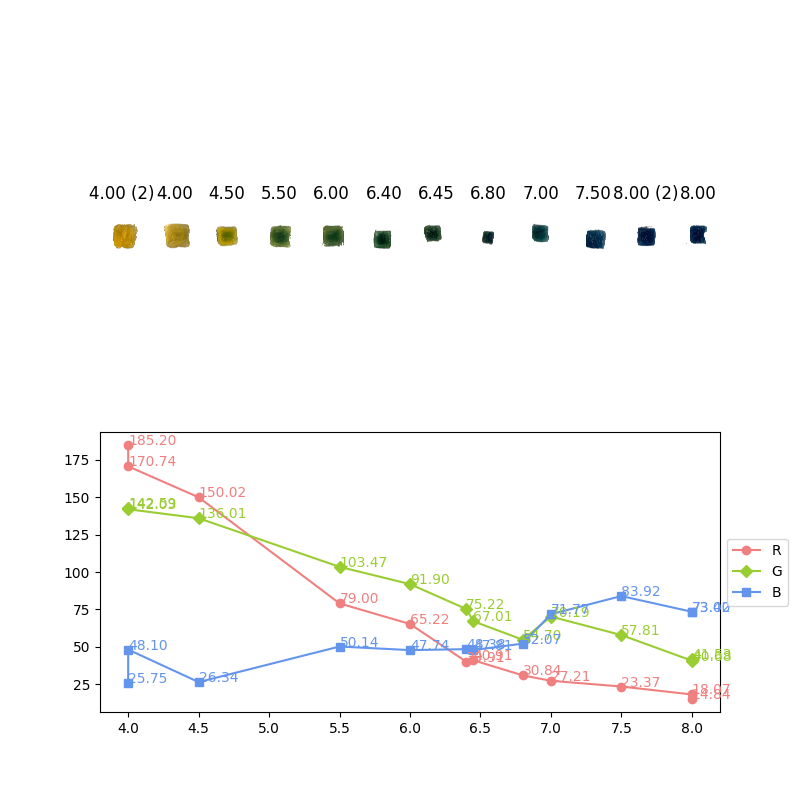
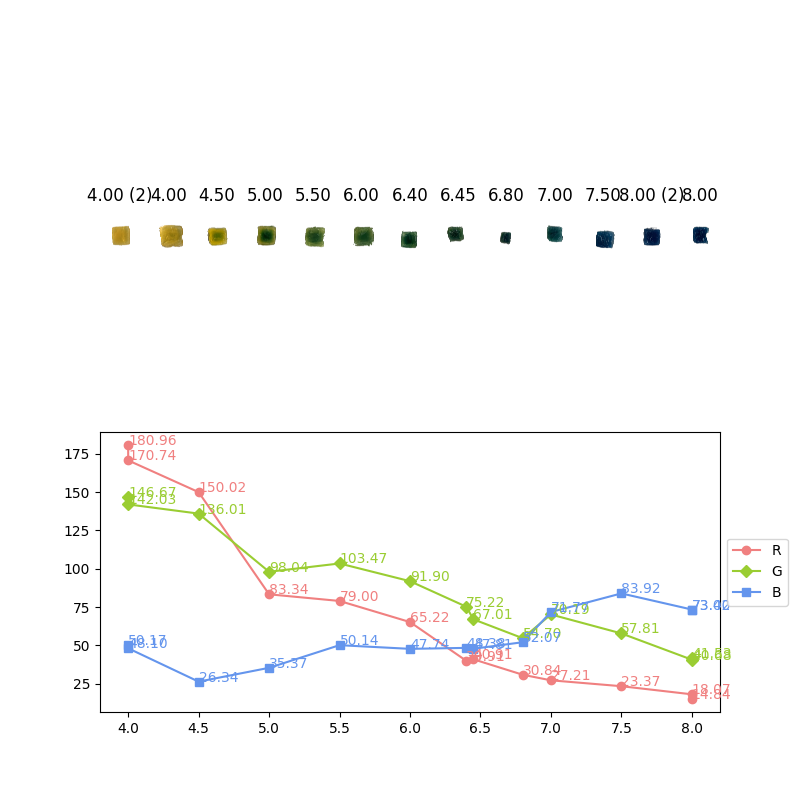
ph4

diff --git a/calibration_curve.py b/calibration_curve.py
@@ -76,7 +76,7 @@ def comparison(images):
   p3 = plt.plot(pHs, blue, color="cornflowerblue", marker="s")
   plt.errorbar(pHs, blue, blue_sd, color="cornflowerblue", capsize=5)
   # Color bars
-  # plt.bar(pHs, [100] * 7, width=0.1, color=[(i[0]/100, i[1]/100, i[2]/100, 0.2) for i in rgb])
+  plt.bar(pHs, [100] * 7, width=0.1, color=[(i[0]/100, i[1]/100, i[2]/100, 0.2) for i in rgb])
   # Add legends
   plt.legend((p1[0], p2[0], p3[0]), ("R", "G", "B"), loc='upper right')
   # Axis range

diff --git a/curve_fitting.py b/curve_fitting.py
@@ -24,7 +24,7 @@ g_values = rgb_values[:, 1]
 b_values = rgb_values[:, 2]
 
 # Perform the curve-fit
-popt, pcov = curve_fit(func, rgb_values, pH_values, maxfev = 20000)
+popt, pcov = curve_fit(func, rgb_values, pH_values, maxfev = 200000)
 a, n1, b, n2, c, n3 = popt
 print("Fitting function:\npH = " + str(a) + " x R^(" + str(n1) + ") + " + str(b) + " x G^(" + str(n2) + ") + " + str(c) + " x B^(" + str(n3) + ")")
 

diff --git a/ph_measuring.py b/ph_measuring.py
@@ -92,7 +92,7 @@ def predict_pH(imgs):
   plt.show()
 
 def main():
-  image_dict = load_images('compare')
+  image_dict = load_images('samples')
   predict_pH(image_dict)
 
 
